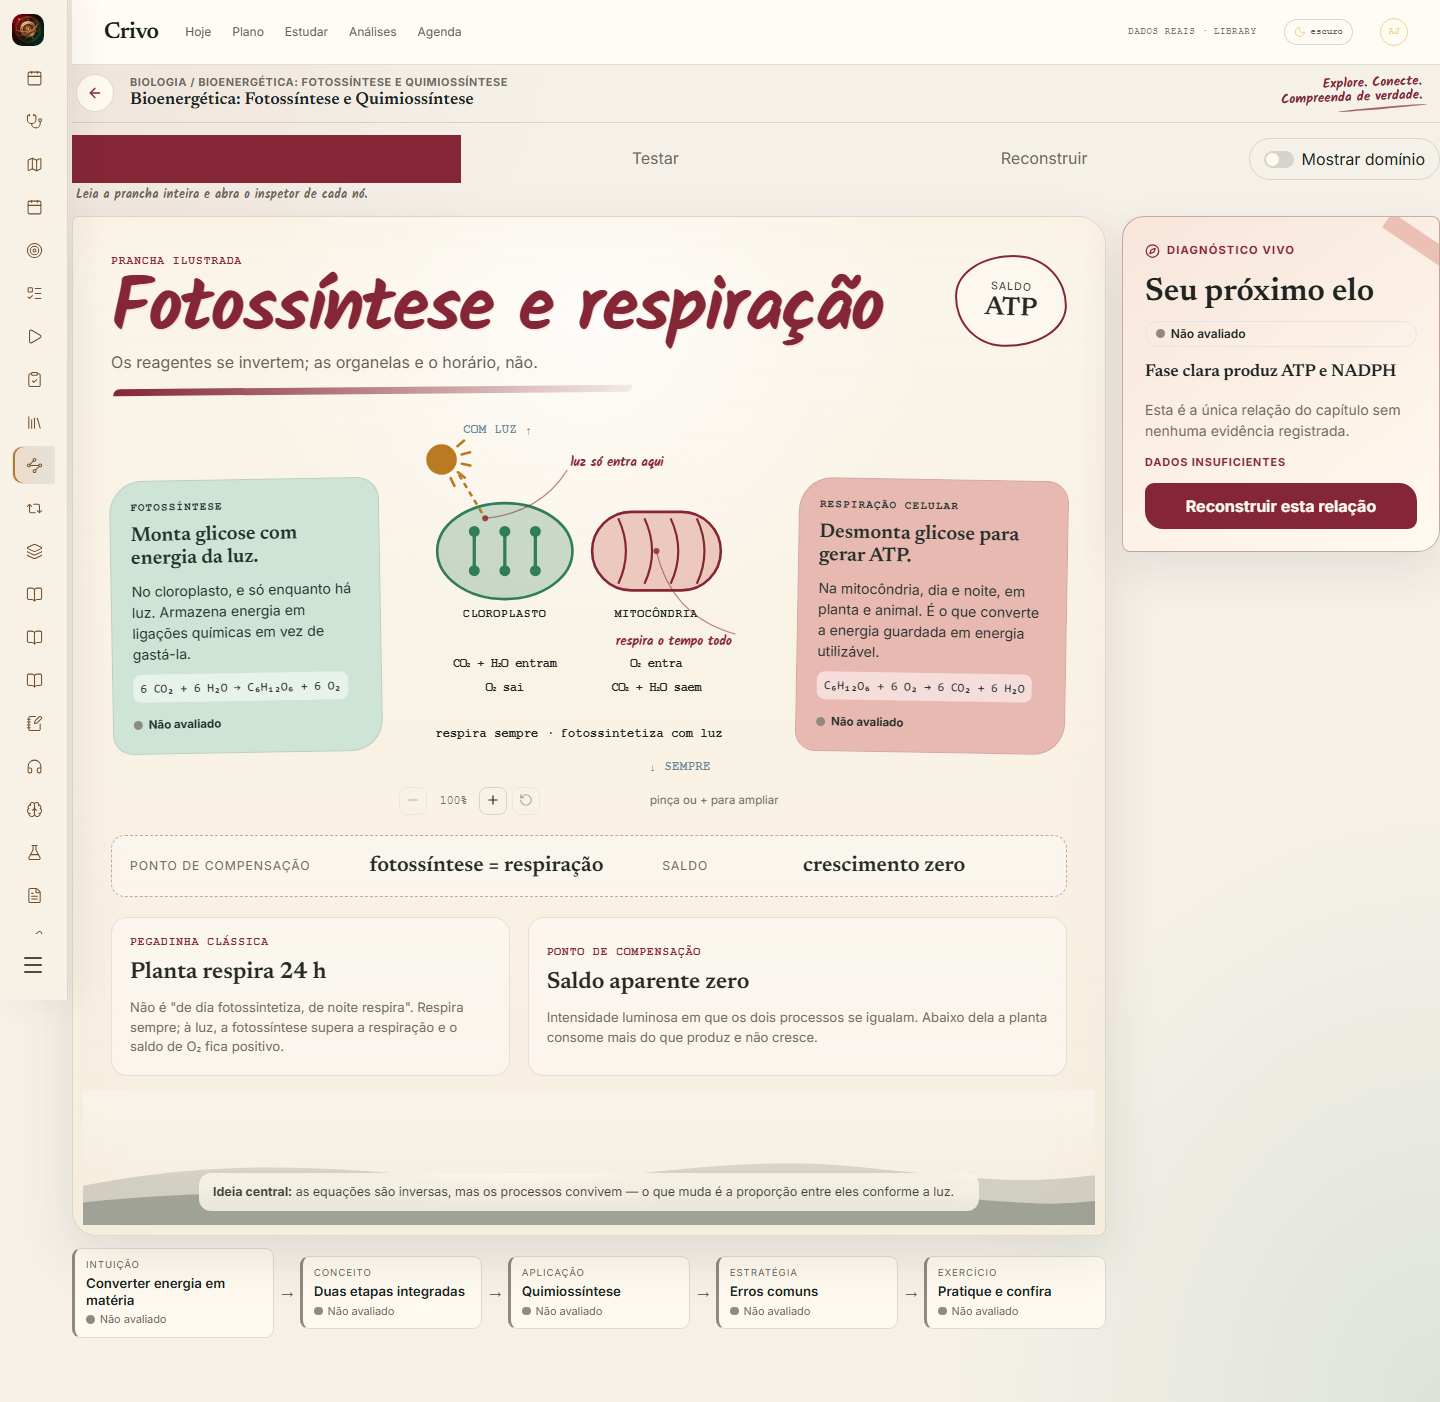
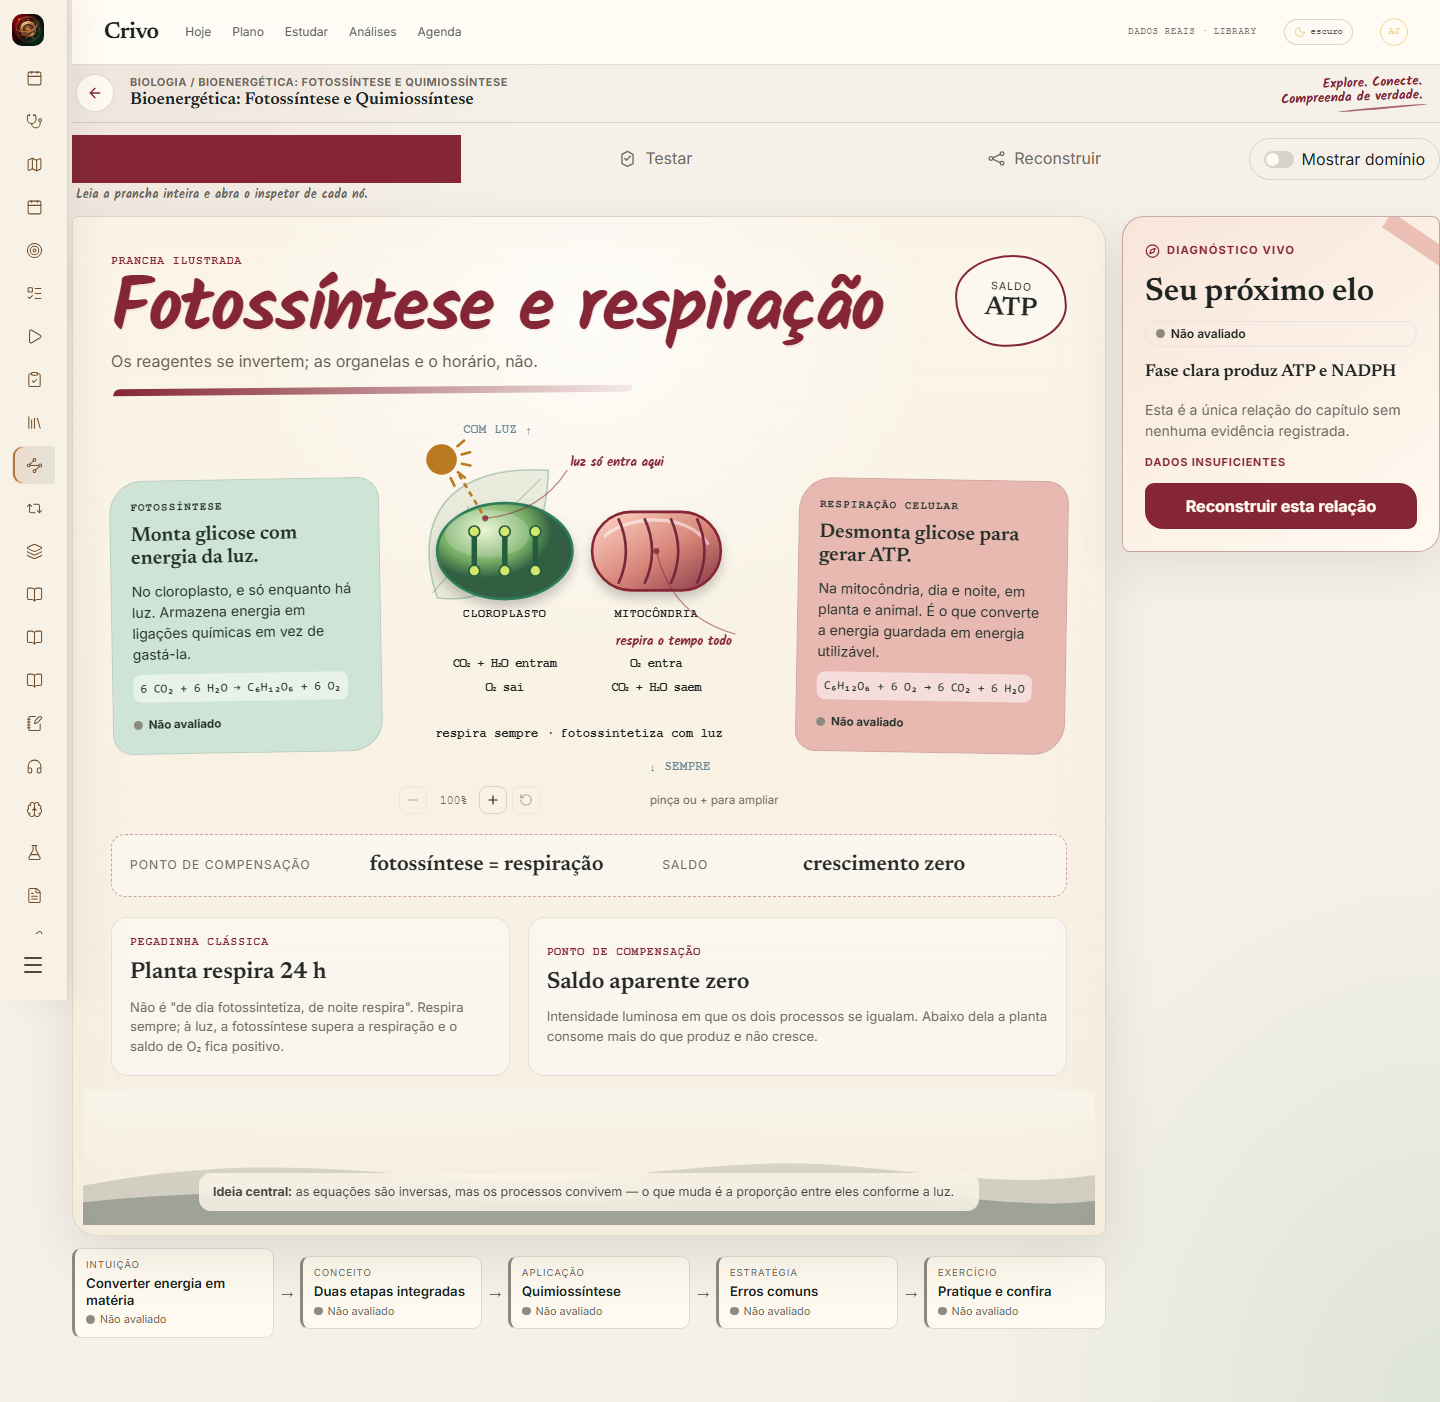
fix(visual): redesenha ilustrações e símbolos autorais

diff --git a/src/views/Visual.css b/src/views/Visual.css
@@ -244,7 +244,13 @@
 .dark .vs-concept-card code { background: rgba(0,0,0,.18); }
 
 .vs-newton-core { fill: color-mix(in srgb, var(--vs-blue) 14%, transparent); stroke: var(--vs-blue); stroke-width: 2; }
+.vs-newton-core { filter: url(#chalk-glow); stroke-dasharray: 5 2 9 1; }
 .vs-newton-core-copy { fill: currentColor; font: 700 13px/1 ui-monospace, SFMono-Regular, monospace; letter-spacing: .08em; }
+.vs-newton-sparks path { fill: none; stroke: var(--vs-amber); stroke-width: 2; stroke-linecap: round; opacity: .8; }
+.vs-force-mini rect { fill: color-mix(in srgb, var(--vs-burgundy) 22%, var(--vs-paper-strong)); stroke: currentColor; stroke-width: 1.4; }
+.vs-force-mini path { fill: none; stroke: var(--vs-burgundy); stroke-width: 1.8; stroke-linecap: round; stroke-linejoin: round; }
+.vs-newton-hand { fill: var(--vs-amber); font: 700 12px/1 "Kalam", cursive; }
+.vs-newton-hand-arrow { fill: none; stroke: var(--vs-amber); stroke-width: 1.5; stroke-linecap: round; stroke-dasharray: 4 2; }
 .vs-newton-link { fill: none; stroke: var(--vs-blue); stroke-width: 2.2; stroke-linecap: round; transition: stroke-width .2s ease, filter .2s ease; }
 .vs-newton-link.is-active { stroke-width: 4; filter: drop-shadow(0 0 6px var(--vs-blue)); }
 .vs-newton-law rect { fill: color-mix(in srgb, var(--vs-paper-strong) 86%, var(--vs-blue)); stroke: var(--vs-blue); stroke-width: 1.4; }
@@ -303,24 +309,30 @@
 .vs-piston-hatch path { stroke-width: 1.6; opacity: .5; }
 
 .vs-piston-gas {
-  fill: color-mix(in srgb, var(--vs-blue) 26%, transparent);
+  fill: url(#gas-volume);
   /* A altura do gás é o complemento do curso do pistão: animar os dois com a
      mesma duração evita o gás "descolar" da placa no meio da transição. */
   transition: y .5s cubic-bezier(.4, 0, .2, 1), height .5s cubic-bezier(.4, 0, .2, 1);
 }
+.vs-cylinder-shadow { fill: rgba(39, 31, 23, .16); filter: blur(4px); }
+.vs-glass-highlight { fill: none; stroke: rgba(255,255,255,.82); stroke-width: 7; stroke-linecap: round; opacity: .68; }
+.vs-gas-surface { fill: rgba(201,239,255,.72); stroke: color-mix(in srgb, var(--vs-blue) 60%, white); stroke-width: 1.4; }
 
 .vs-piston-molecules circle {
   fill: var(--vs-blue);
   opacity: .8;
   transition: cy .5s cubic-bezier(.4, 0, .2, 1);
 }
+.vs-piston-molecules .vs-molecule-shine { fill: rgba(255,255,255,.92); opacity: 1; }
 
 .vs-piston-head {
   transition: transform .5s cubic-bezier(.4, 0, .2, 1);
 }
-.vs-piston-plate { fill: var(--vs-burgundy); }
+.vs-piston-plate { fill: url(#metal-piston); filter: url(#piston-shadow); }
+.vs-piston-rim { fill: rgba(31,37,35,.35); }
+.vs-piston-face { fill: url(#metal-piston); stroke: rgba(255,255,255,.46); stroke-width: 1; }
 .vs-piston-rod,
-.vs-piston-cap { fill: color-mix(in srgb, var(--vs-ink) 72%, transparent); }
+.vs-piston-cap { fill: url(#metal-piston); filter: url(#piston-shadow); }
 
 .vs-piston-seal circle {
   fill: var(--vs-paper-strong);
@@ -348,8 +360,8 @@
 .vs-piston-wrap[data-emphasis='expansao'] .vs-force-note--down,
 .vs-piston-wrap[data-emphasis='compressao'] .vs-force-note--up { opacity: .34; }
 
-.vs-piston[data-emphasis='expansao'] .vs-piston-gas { fill: color-mix(in srgb, var(--vs-blue) 16%, transparent); }
-.vs-piston[data-emphasis='compressao'] .vs-piston-gas { fill: color-mix(in srgb, var(--vs-blue) 40%, transparent); }
+.vs-piston[data-emphasis='expansao'] .vs-piston-gas { opacity: .72; }
+.vs-piston[data-emphasis='compressao'] .vs-piston-gas { opacity: 1; filter: saturate(1.2); }
 
 @media (prefers-reduced-motion: reduce) {
   .vs-piston-gas,
@@ -867,18 +879,24 @@
 
 /* Bioenergética */
 .vs-chloroplast {
-  fill: color-mix(in srgb, var(--vs-green) 24%, transparent);
+  fill: url(#chloroplast-body);
   stroke: var(--vs-green);
   stroke-width: 2.4;
+  filter: url(#organelle-shadow);
 }
-.vs-thylakoid { stroke: var(--vs-green); stroke-width: 3; stroke-linecap: round; }
-.vs-grana { fill: var(--vs-green); }
+.vs-organelle-highlight { fill: rgba(255,255,255,.18); }
+.vs-leaf-silhouette { fill: rgba(75,133,69,.10); stroke: rgba(47,125,89,.32); stroke-width: 1.4; }
+.vs-leaf-vein { fill: none; stroke: rgba(47,125,89,.28); stroke-width: 1.2; stroke-linecap: round; }
+.vs-thylakoid { stroke: #245c3d; stroke-width: 5; stroke-linecap: round; }
+.vs-grana { fill: #d1e86a; stroke: #245c3d; stroke-width: 1.5; }
 .vs-mitochondria {
-  fill: color-mix(in srgb, var(--vs-coral) 40%, transparent);
+  fill: url(#mito-body);
   stroke: var(--vs-burgundy);
   stroke-width: 2.4;
+  filter: url(#organelle-shadow);
 }
-.vs-crista { fill: none; stroke: var(--vs-burgundy); stroke-width: 2; }
+.vs-mito-glow { fill: none; stroke: rgba(255,255,255,.5); stroke-width: 3; stroke-linecap: round; }
+.vs-crista { fill: none; stroke: #75283c; stroke-width: 2.4; }
 .dark .vs-crista, .dark .vs-mitochondria { stroke: #d88598; }
 .vs-organelle-name {
   fill: var(--vs-dim);
@@ -1740,12 +1758,18 @@
 .vs-study-toolbar .vs-mode-row { grid-column: 1 / -1; }
 .vs-mode-row .vs-modes { width: auto; margin: 0; gap: 0 !important; }
 .vs-modes > button {
+  display: inline-flex;
+  align-items: center;
+  justify-content: center;
+  gap: 8px;
   border: 0 !important;
   border-bottom: 2px solid transparent !important;
   border-radius: 0 !important;
   background: transparent !important;
   color: var(--vs-dim) !important;
 }
+.vs-modes > button > svg { width: 19px; height: 19px; fill: none; stroke: currentColor; stroke-width: 1.7; stroke-linecap: round; stroke-linejoin: round; }
+.vs-modes > button[aria-selected='true'] > svg { transform: rotate(-4deg) scale(1.08); }
 .vs-modes > button[aria-selected='true'] {
   border-bottom-color: var(--vs-burgundy) !important;
   color: var(--vs-burgundy) !important;

diff --git a/src/views/visual-boards/AdiabaticBoard.tsx b/src/views/visual-boards/AdiabaticBoard.tsx
@@ -32,11 +32,18 @@ function AdiabaticPiston({ emphasis }: { emphasis: 'expansao' | 'compressao' | '
       data-emphasis={emphasis}
       aria-label="Cilindro termicamente isolado: o gás ocupa a parte de baixo e o pistão desliza no topo, sem troca de calor com o meio"
     >
+      <defs>
+        <linearGradient id="metal-piston" x1="0" x2="1"><stop stopColor="#353b39" /><stop offset=".35" stopColor="#d9d7cc" /><stop offset=".58" stopColor="#6f7470" /><stop offset="1" stopColor="#222725" /></linearGradient>
+        <linearGradient id="gas-volume" x1="0" y1="0" x2="0" y2="1"><stop stopColor="#dff5ff" stopOpacity=".52" /><stop offset="1" stopColor="#75bce5" stopOpacity=".72" /></linearGradient>
+        <filter id="piston-shadow" x="-30%" y="-30%" width="160%" height="170%"><feDropShadow dx="0" dy="5" stdDeviation="5" floodOpacity=".25" /></filter>
+      </defs>
+      <ellipse className="vs-cylinder-shadow" cx="160" cy="309" rx="112" ry="12" />
       <g className="vs-piston-wall">
         {/* Parede dupla: a faixa entre as duas linhas recebe as hachuras. */}
         <path d="M70 70 L70 290 L250 290 L250 70" />
         <path d="M52 70 L52 308 L268 308 L268 70" />
       </g>
+      <path className="vs-glass-highlight" d="M78 84V278" />
 
       <g className="vs-piston-hatch" aria-hidden="true">
         {Array.from({ length: 12 }, (_, i) => (
@@ -52,20 +59,25 @@ function AdiabaticPiston({ emphasis }: { emphasis: 'expansao' | 'compressao' | '
 
       {/* O gás começa logo abaixo do pistão e vai até o fundo do cilindro. */}
       <rect className="vs-piston-gas" x="70" y={topoGas} width="180" height={alturaGas} />
+      <ellipse className="vs-gas-surface" cx="160" cy={topoGas} rx="90" ry="10" />
 
       <g className="vs-piston-molecules" aria-hidden="true">
         {[
           [104, 0.62], [148, 0.28], [196, 0.7], [226, 0.42],
           [118, 0.86], [172, 0.52], [212, 0.9], [88, 0.34],
         ].map(([x, f], i) => (
-          <circle key={i} cx={x} cy={topoGas + alturaGas * f} r="4.5" />
+          <g key={i} transform={`translate(${x} ${topoGas + alturaGas * f})`}>
+            <circle r="5.5" /><circle className="vs-molecule-shine" cx="-1.6" cy="-1.8" r="1.4" />
+          </g>
         ))}
       </g>
 
       {/* Um só translate move placa, haste e punho: eles são peça única, e
           animar cada um daria descolamento no meio da transição. */}
       <g className="vs-piston-head" style={{ transform: `translateY(${topoGas - 150}px)` }}>
+        <ellipse className="vs-piston-rim" cx="160" cy="142" rx="98" ry="14" />
         <rect className="vs-piston-plate" x="66" y="134" width="188" height="16" rx="3" />
+        <ellipse className="vs-piston-face" cx="160" cy="134" rx="94" ry="12" />
         <rect className="vs-piston-rod" x="150" y="76" width="20" height="60" rx="4" />
         <rect className="vs-piston-cap" x="128" y="62" width="64" height="14" rx="5" />
       </g>

diff --git a/src/views/visual-boards/PhotosynthesisBoard.tsx b/src/views/visual-boards/PhotosynthesisBoard.tsx
@@ -19,9 +19,17 @@ function LeafScene({ emphasis }: { emphasis: 'esquerda' | 'direita' | 'nenhum' }
   return (
     <svg className="vs-piston vs-scene" viewBox="0 0 320 330" role="img" data-emphasis={emphasis}
       aria-label="Cloroplasto e mitocôndria com as entradas e saídas de gás e a energia de cada processo">
+      <defs>
+        <radialGradient id="chloroplast-body" cx="35%" cy="28%"><stop stopColor="#e6f5c9" /><stop offset=".68" stopColor="#72aa62" /><stop offset="1" stopColor="#315f42" /></radialGradient>
+        <linearGradient id="mito-body" x1="0" y1="0" x2="1" y2="1"><stop stopColor="#ffd8c9" /><stop offset=".55" stopColor="#d78478" /><stop offset="1" stopColor="#843546" /></linearGradient>
+        <filter id="organelle-shadow" x="-30%" y="-30%" width="170%" height="180%"><feDropShadow dx="0" dy="6" stdDeviation="5" floodOpacity=".2" /></filter>
+      </defs>
+      <path className="vs-leaf-silhouette" d="M30 165C5 90 43 42 132 48c-3 81-42 124-102 117Z" />
+      <path className="vs-leaf-vein" d="M26 160C62 120 91 88 125 56M66 119l-8-38M84 101l34-8" />
       {/* Cloroplasto: elipse com tilacoides empilhados. */}
       <g className="vs-organelle" data-dim={foco === 'resp' ? 'true' : undefined}>
         <ellipse className="vs-chloroplast" cx="92" cy="122" rx="62" ry="44" />
+        <ellipse className="vs-organelle-highlight" cx="76" cy="106" rx="39" ry="22" />
         {[0, 1, 2].map((i) => (
           <g key={i}>
             <line className="vs-thylakoid" x1={64 + i * 28} y1="104" x2={64 + i * 28} y2="140" />
@@ -45,6 +53,7 @@ function LeafScene({ emphasis }: { emphasis: 'esquerda' | 'direita' | 'nenhum' }
       {/* Mitocôndria: cápsula com cristas. */}
       <g className="vs-organelle" data-dim={foco === 'foto' ? 'true' : undefined}>
         <rect className="vs-mitochondria" x="172" y="86" width="118" height="72" rx="36" />
+        <path className="vs-mito-glow" d="M184 108c19-18 74-23 94 7" />
         {[0, 1, 2, 3].map((i) => (
           <path key={i} className="vs-crista" d={`M${196 + i * 24} 92 q 14 30, 0 60`} />
         ))}

diff --git a/src/views/visual-boards/NewtonBoard.tsx b/src/views/visual-boards/NewtonBoard.tsx
@@ -10,12 +10,17 @@ function NewtonScene({ emphasis }: { emphasis: 'esquerda' | 'direita' | 'nenhum'
   return (
     <svg className="vs-piston vs-scene vs-newton-scene" viewBox="0 0 320 330" role="img"
       aria-label="Mapa radial das três leis de Newton, ligando inércia, força resultante e ação e reação">
+      <defs>
+        <filter id="chalk-glow" x="-30%" y="-30%" width="160%" height="160%"><feGaussianBlur stdDeviation="1.2" result="b" /><feMerge><feMergeNode in="b" /><feMergeNode in="SourceGraphic" /></feMerge></filter>
+      </defs>
+      <g className="vs-newton-sparks" aria-hidden="true">
+        <path d="M145 101l-8-15M160 97V78M176 101l9-15M105 155H87M215 155h18M111 201l-13 12M210 201l13 12" />
+      </g>
       <motion.circle className="vs-newton-core" cx="160" cy="165" r="53"
         initial={reducedMotion ? false : { opacity: 0, scale: .82 }}
         animate={{ opacity: 1, scale: 1 }} transition={{ type: 'spring', stiffness: 150, damping: 18 }} />
       <text className="vs-newton-core-copy" x="160" y="157" textAnchor="middle">LEIS DE</text>
       <text className="vs-newton-core-copy" x="160" y="178" textAnchor="middle">NEWTON</text>
-
       <motion.path className={`vs-newton-link${emphasis === 'esquerda' ? ' is-active' : ''}`} d="M126 124 78 76"
         initial={reducedMotion ? false : { pathLength: 0 }} animate={{ pathLength: 1 }} transition={lineTransition} />
       <motion.path className={`vs-newton-link${emphasis === 'direita' ? ' is-active' : ''}`} d="M194 124 244 76"
@@ -38,6 +43,8 @@ function NewtonScene({ emphasis }: { emphasis: 'esquerda' | 'direita' | 'nenhum'
         <text x="160" y="288" textAnchor="middle">3ª Lei · Par</text>
         <text x="160" y="308" textAnchor="middle">F₁ = −F₂</text>
       </g>
+      <text className="vs-newton-hand" x="12" y="245" transform="rotate(-5 12 245)">desenhe as forças</text>
+      <path className="vs-newton-hand-arrow" d="M94 239q28-12 47-29" />
     </svg>
   );
 }

diff --git a/src/views/Visual.tsx b/src/views/Visual.tsx
@@ -31,6 +31,18 @@ const NODE_H = 62;
 const NODE_GAP = 46;
 const PLATE_W = 380;
 
+function ModeGlyph({ mode }: { mode: Mode }) {
+  if (mode === 'explorar') return (
+    <svg viewBox="0 0 24 24" aria-hidden="true"><circle cx="12" cy="12" r="8" /><path d="m14.8 8.8-1.7 4.3-4.3 1.7 1.7-4.3 4.3-1.7Z" /><circle cx="12" cy="12" r="1" /></svg>
+  );
+  if (mode === 'testar') return (
+    <svg viewBox="0 0 24 24" aria-hidden="true"><path d="M5 18.5V6.8L12 3l7 3.8v11.7L12 22l-7-3.5Z" /><path d="m8.5 12 2.2 2.2 4.8-5" /></svg>
+  );
+  return (
+    <svg viewBox="0 0 24 24" aria-hidden="true"><circle cx="5" cy="12" r="2.3" /><circle cx="19" cy="6" r="2.3" /><circle cx="19" cy="18" r="2.3" /><path d="m7.2 11.1 9.6-4.2M7.2 12.9l9.6 4.2" /></svg>
+  );
+}
+
 function plateGeometry(count: number) {
   const nodes = Array.from({ length: count }, (_, index) => ({ y: 10 + index * (NODE_H + NODE_GAP) }));
   return { nodes, height: 20 + count * NODE_H + Math.max(0, count - 1) * NODE_GAP };
@@ -383,6 +395,7 @@ export default function Visual() {
               mode === key ? 'bg-indigo-600 text-white' : 'border border-zinc-300 dark:border-zinc-700'
             }`}
           >
+            <ModeGlyph mode={key} />
             {MODE_LABEL[key]}
           </button>
         ))}

diff --git a/docs/visual-personalizado/03-registro-de-implementacao.md b/docs/visual-personalizado/03-registro-de-implementacao.md
@@ -24,6 +24,15 @@ por parecer genérica. A tela passou a usar uma composição editorial contínua
 A validação também encontrou e corrigiu um controle de domínio sobreposto à
 aba Reconstruir no celular.
 
+## 2026-09-14 — redesenho das ilustrações e símbolos
+
+Após a composição ser aprovada como direção, os desenhos ainda foram recusados
+por parecerem ícones genéricos ampliados. A correção alterou os SVGs: o pistão
+recebeu vidro, metal, reflexos, gás em profundidade e partículas; cloroplasto e
+mitocôndria receberam volume, textura e anatomia reconhecível; Newton recebeu
+traço de lousa e marcas de força. Explorar, Testar e Reconstruir agora têm
+glifos próprios, desenhados para a função pedagógica de cada modo.
+
 ### Primeira etapa técnica
 
 ### Arquivos criados
